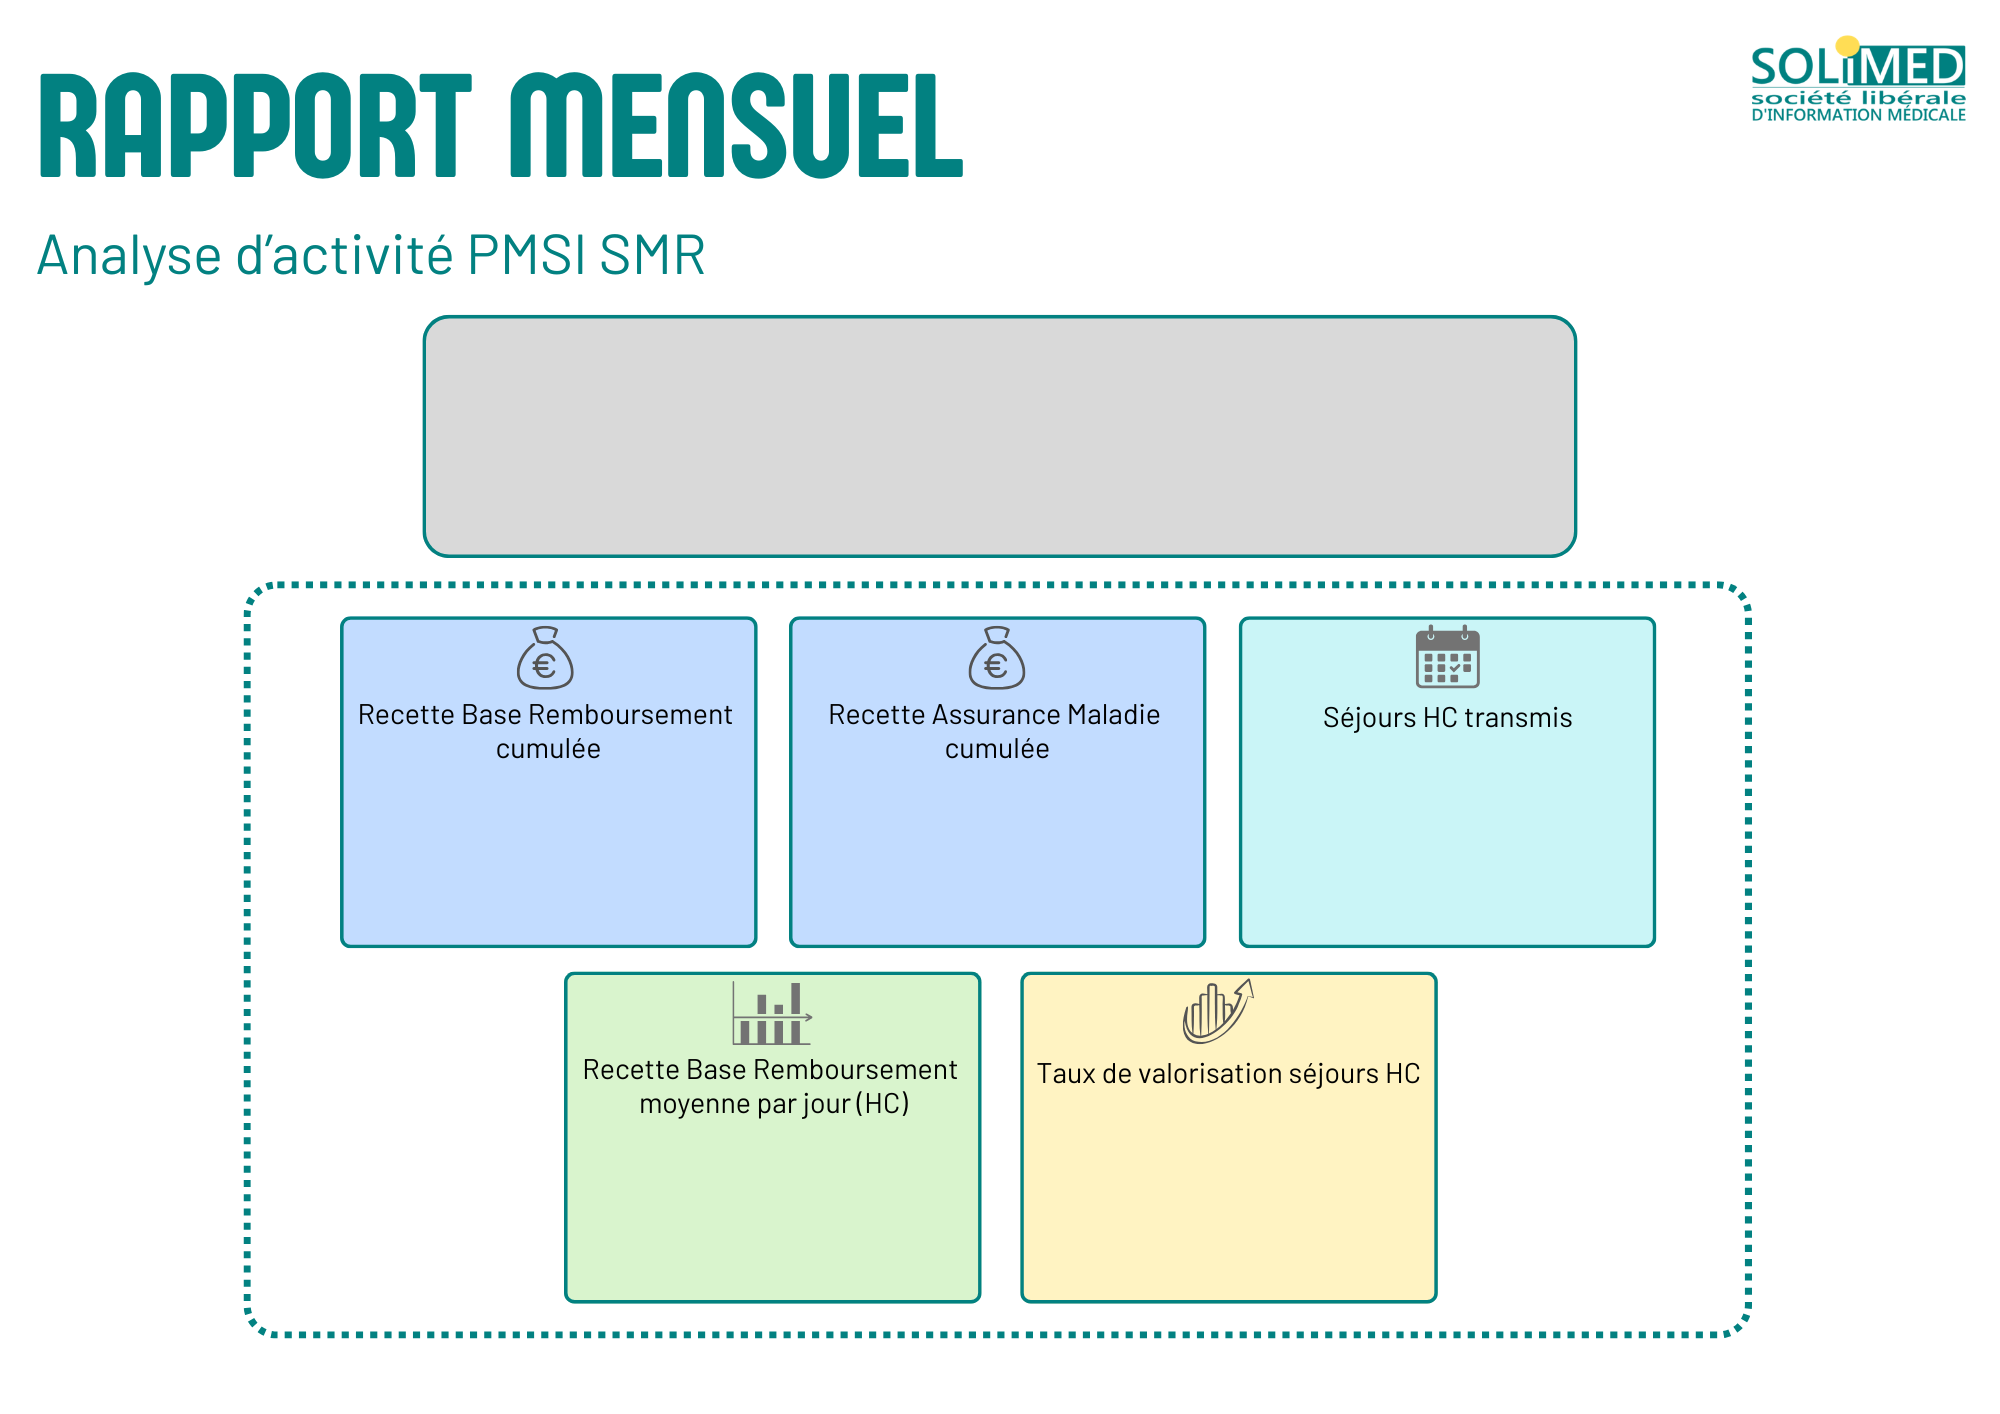
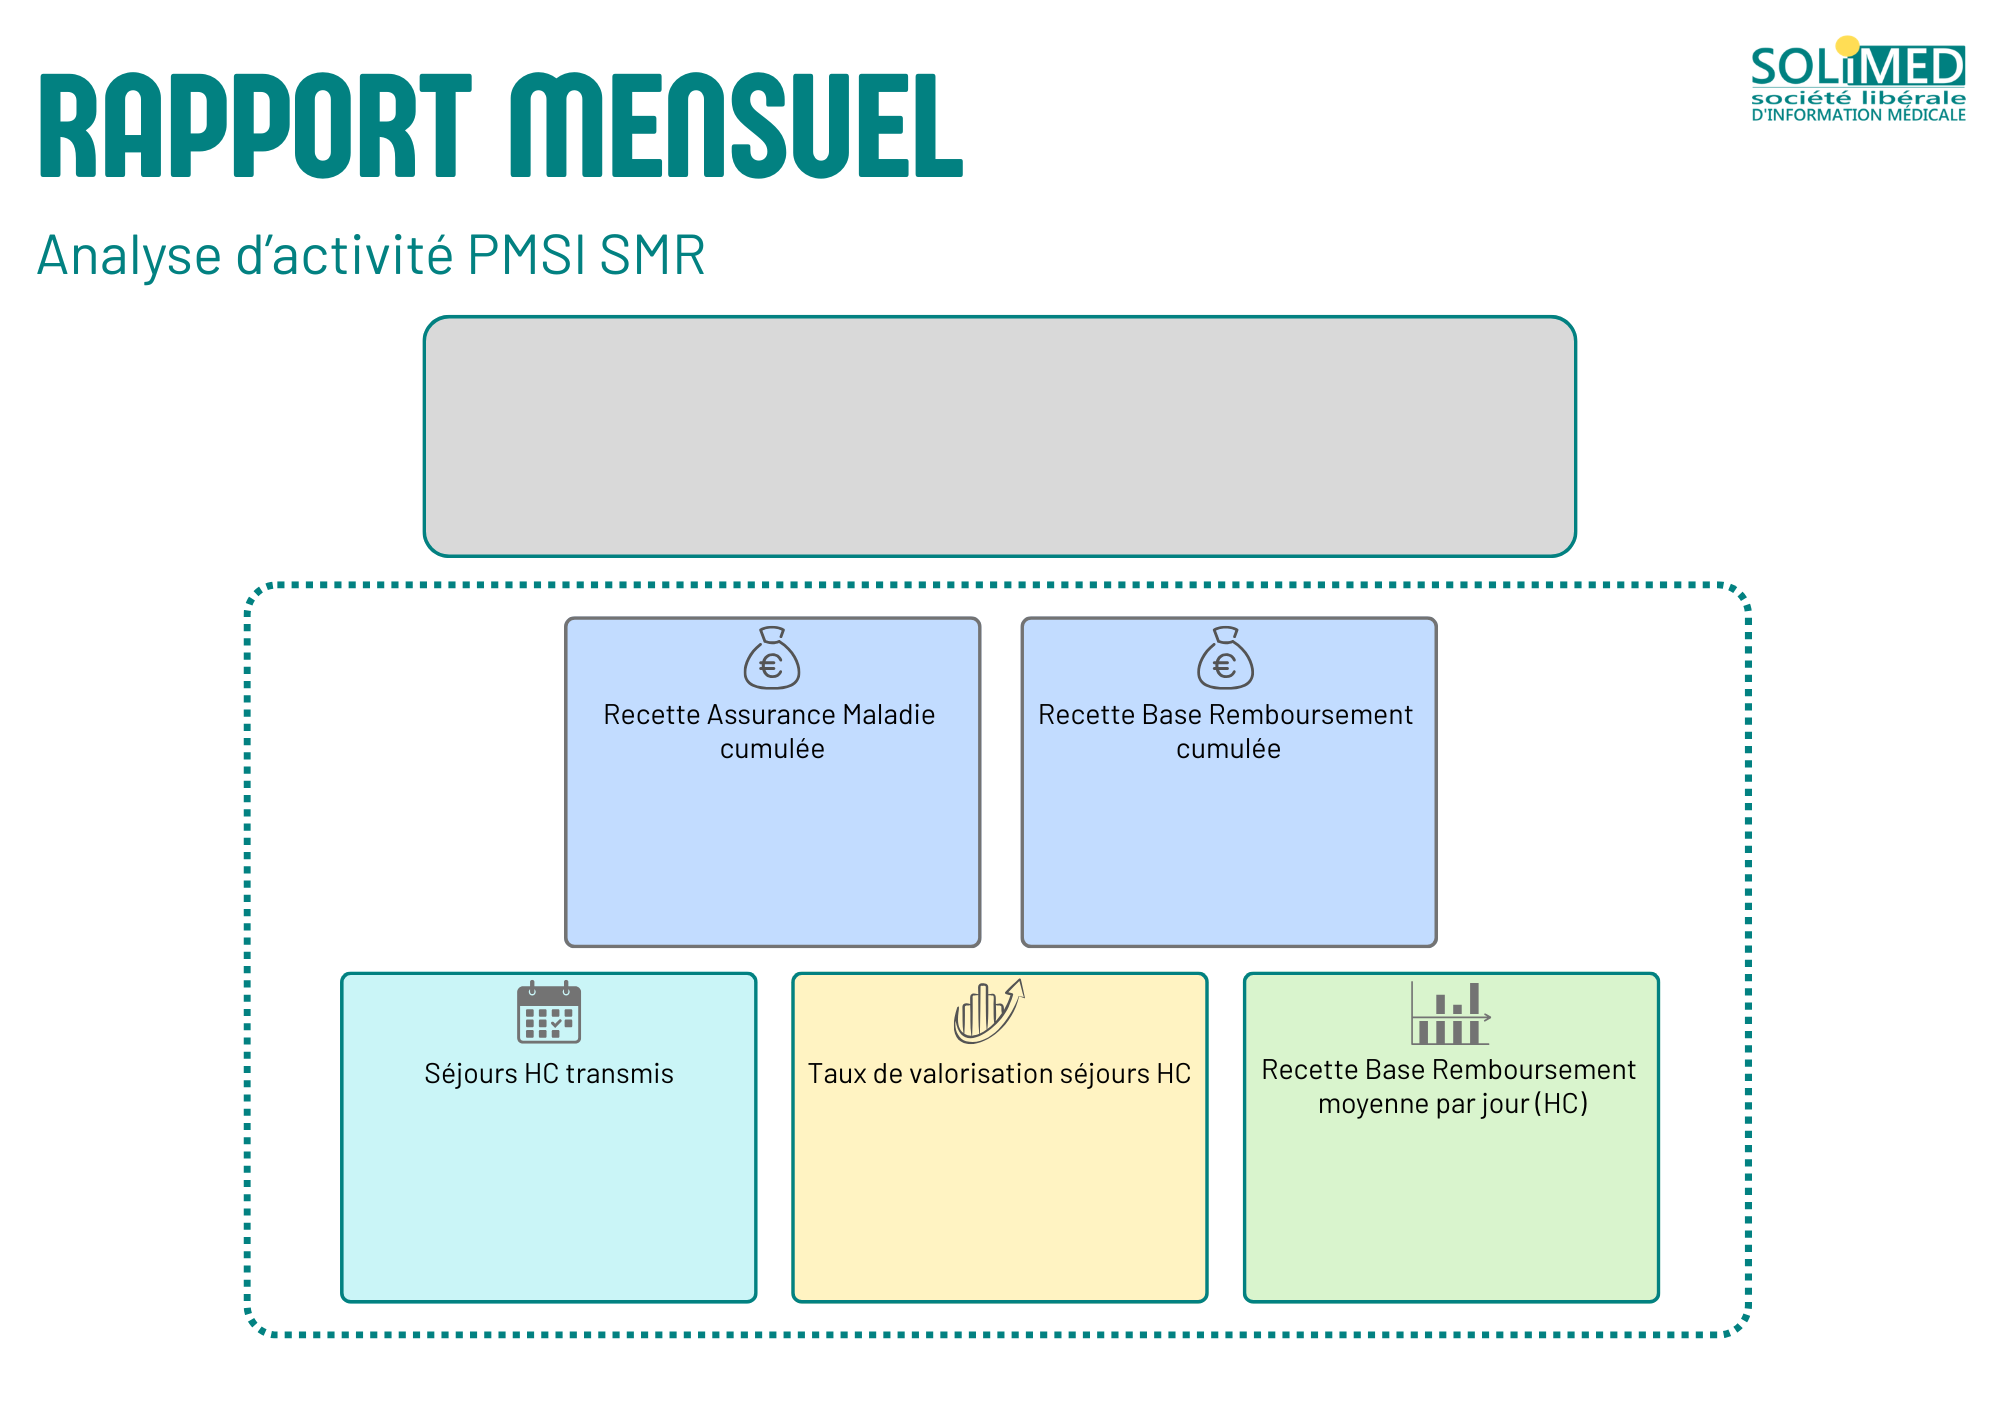
KPI design

Changed region(s): [[0.155, 0.4356, 0.837, 0.9335]]

diff --git a/core.py b/core.py
@@ -749,7 +749,7 @@ def make_ax_hlines(ax, col, title, objectif, evol_df, fmt="{: .0f}", moy_annuell
     ax.axhline(moyenne, color=GRIS, linestyle="--", linewidth=1.5,
                label=f"Moyenne période ({format_fr(moyenne)})")
     if moy_annuelle is not None:
-        ax.axhline(moy_annuelle, color=NOIR, linestyle="--", linewidth=1.5,
+        ax.axhline(moy_annuelle, color=VERT_KPI, linestyle="--", linewidth=1.5,
                    label=f"Moy. année préc. ({format_fr(moy_annuelle)})")
     ax.set_title(title, pad=25, fontproperties=barlow_bold, color=VERT_TEXT)
     ax.legend(fontsize=10, framealpha=0.9, loc="best")
@@ -841,36 +841,26 @@ COVER_ETAB_X        = 0.500   # centré horizontalement
  
 # Grand bloc KPI (zone teal pointillée)
 KPI_POS_ALL = {
-    "recette_BR_period":       (0.160, 0.495),
-    "montantAM_valorise_HC":   (0.385, 0.495),
-    "effectif_transmis_HC":    (0.610, 0.495),
-    "effectif_transmis_HTP":   (0.835, 0.495),
+    "montantAM_valorise_HC":           (0.130, 0.495),
+    "effectif_transmis_HC":            (0.385, 0.495),
+    "taux_valorisation_cumule_HC":     (0.610, 0.495),
+    "recette_BR_moy_jour_cumule_HC":   (0.835, 0.495),
 
-    "recette_BR_moy_sej":      (0.160, 0.235),
-    "recette_BR_moy_jour":     (0.385, 0.235),
-    "taux_valorisation_HC":    (0.610, 0.235),
-    "taux_valorisation_HTP":   (0.835, 0.235),
+    "recette_BR_cumule_total":  (0.130, 0.235),
+    "effectif_transmis_HTP":    (0.385, 0.235),
+    "taux_valorisation_HTP":    (0.610, 0.235),
+    "recette_BR_moy_jour":      (0.835, 0.235),
 }
-
-# KPI_POS_HC = {
-#     "recette_BR_period":       (0.275, 0.430),
-#     "montantAM_valorise_HC":   (0.500, 0.430),
-#     "effectif_transmis_HC":    (0.725, 0.430),
-
-#     "recette_BR_moy_sej":      (0.390, 0.176),
-#     "taux_valorisation_HC":    (0.610, 0.176),
-# }
 
 KPI_POS_HC = {
-    "recette_BR_cumule_total":           (0.275, 0.430),
-    "montantAM_valorise_HC":             (0.500, 0.430),
-    "effectif_transmis_HC":              (0.725, 0.430),
+    "montantAM_valorise_HC":          (0.390, 0.430),
+    "recette_BR_cumule_total":        (0.610, 0.430),
 
-    "recette_BR_moy_jour_cumule_HC":     (0.390, 0.176),
-    "taux_valorisation_cumule_HC":       (0.610, 0.176),
+    "effectif_transmis_HC":           (0.275, 0.176),
+    "taux_valorisation_cumule_HC":    (0.500, 0.176),
+    "recette_BR_moy_jour_cumule_HC":  (0.725, 0.176),
 }
 
- 
 # ── Pages graphiques HC / HTP ─────────────────────────────────────────────────
 # Graphique haut gauche
 GRAPH_LEFT_L  = 0.060 #horizontal
